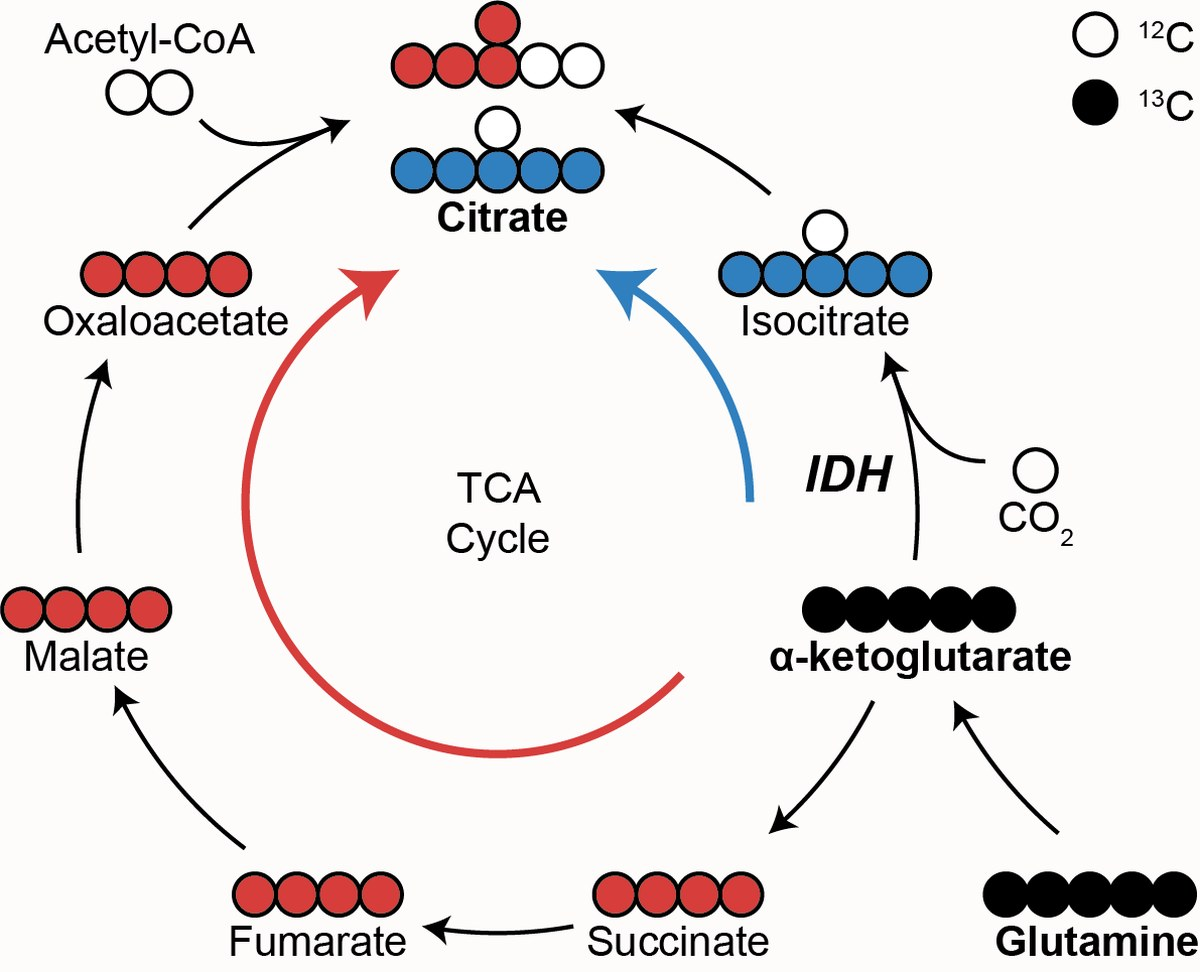
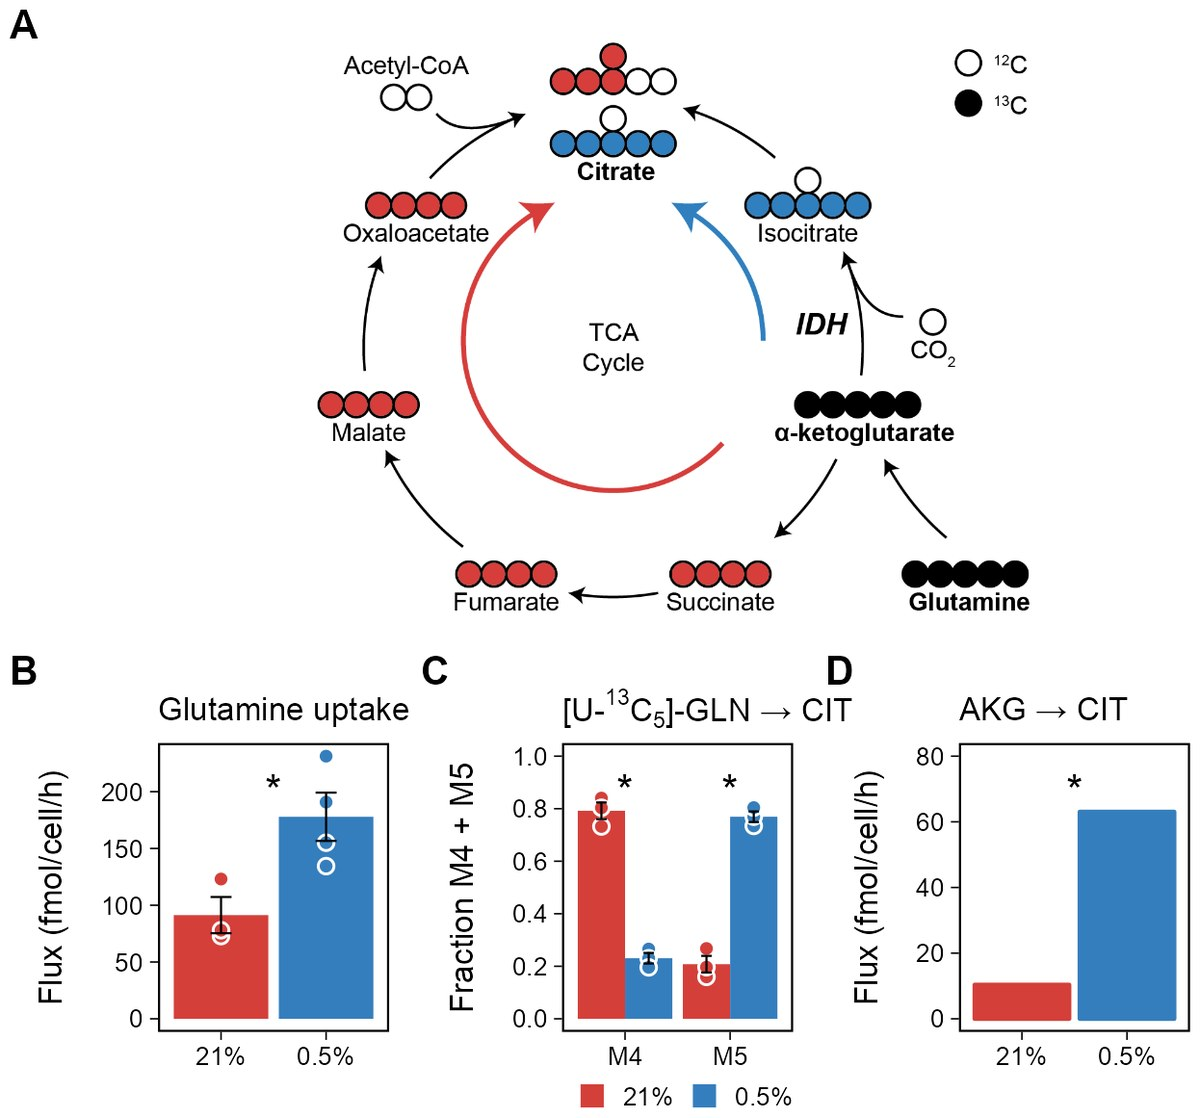
content: MYC page - add data figures, replace the schematic-only figure
Review: "this figure is too big for what it shows" and a request for the
hypoxia/normoxia PASMC flux data plus MYC activation data.

The standalone reductive carboxylation schematic is replaced by figures/01_rc.png
from the PHA folder, which is the same schematic PLUS the PASMC flux data the
client asked for: glutamine uptake, the M4-to-M5 shift in glutamine-derived
citrate labeling, and the ~6-fold rise in reductive flux from alpha-ketoglutarate
to citrate, all at 21 versus 0.5 percent oxygen. Same footprint on the page, four
times the content, so the space is now earned. Panel bounds and content bbox
detected from the source; transparency flattened onto the page canvas.

MYC activation added from eLife Figure 11 A-B, rendered from the PDF at 300 dpi
and trimmed to content: MYC protein rises in hypoxia but not with pharmacologic
HIF stabilization in normoxia. Placed with the paragraph that makes the claim.

Note on sourcing: the client asked for the PASMC flux map, but the only flux map
rendered in the eLife PDF is Figure 5A, which is lung fibroblasts - the PASMC
comparison is figure supplement 4 and is not in the main article file. The PHA
figure carries the PASMC numbers directly, so it is the better source and no
cell type is misattributed.

Also fixed: a percent sign in fig-alt text made Quarto's link checker try to
parse the alt string as a URI and emit an Invalid URI warning. Both alt strings
now spell out the oxygen tensions.

diff --git a/_site/research/pulmonary-vascular-metabolism.html b/_site/research/pulmonary-vascular-metabolism.html
@@ -106,14 +106,14 @@ cookieconsent.run({
 
 <meta property="og:title" content="Metabolic regulation in pulmonary vascular disease – Oldham Lab">
 <meta property="og:description" content="Pulmonary artery smooth muscle cells keep proliferating in low oxygen when most cells stop. We are defining the metabolic signal that permits it, and testing whether blocking that signal prevents vascular remodeling.">
-<meta property="og:image" content="https://oldhamlab.org/img/research/reductive-carboxylation.jpg">
+<meta property="og:image" content="https://oldhamlab.org/img/research/myc-hypoxia.jpg">
 <meta property="og:site_name" content="Oldham Lab">
-<meta property="og:image:alt" content="Diagram of the tricarboxylic acid cycle showing oxidative flux from glutamine-derived alpha-ketoglutarate around to citrate, and the reductive route in which isocitrate dehydrogenase fixes carbon dioxide onto alpha-ketoglutarate to form citrate directly. Carbon atoms derived from labeled glutamine are marked.">
+<meta property="og:image:alt" content="Immunoblot and quantification showing MYC protein increased in lung fibroblasts cultured in low oxygen compared with room air, with and without the prolyl hydroxylase inhibitor molidustat.">
 <meta name="twitter:title" content="Metabolic regulation in pulmonary vascular disease – Oldham Lab">
 <meta name="twitter:description" content="Pulmonary artery smooth muscle cells keep proliferating in low oxygen when most cells stop. We are defining the metabolic signal that permits it, and testing whether blocking that signal prevents vascular remodeling.">
-<meta name="twitter:image" content="https://oldhamlab.org/img/research/reductive-carboxylation.jpg">
+<meta name="twitter:image" content="https://oldhamlab.org/img/research/myc-hypoxia.jpg">
 <meta name="twitter:card" content="summary_large_image">
-<meta name="twitter:image:alt" content="Diagram of the tricarboxylic acid cycle showing oxidative flux from glutamine-derived alpha-ketoglutarate around to citrate, and the reductive route in which isocitrate dehydrogenase fixes carbon dioxide onto alpha-ketoglutarate to form citrate directly. Carbon atoms derived from labeled glutamine are marked.">
+<meta name="twitter:image:alt" content="Immunoblot and quantification showing MYC protein increased in lung fibroblasts cultured in low oxygen compared with room air, with and without the prolyl hydroxylase inhibitor molidustat.">
 </head>
 
 <body class="nav-fixed fullcontent quarto-light">
@@ -207,10 +207,14 @@ cookieconsent.run({
 
 <p>Pulmonary hypertension arising from chronic lung disease is common and carries the highest mortality of any subtype, yet only one therapy is approved for it and it helps only some patients. Sustained low oxygen thickens and narrows the pulmonary arteries, and that remodeling is driven by proliferation of the smooth muscle cells in the vessel wall. Most cells slow or stop dividing in hypoxia. Pulmonary artery smooth muscle cells do not, which implies a pathway that sustains growth when it should be suppressed.</p>
 <p>The canonical account of hypoxic metabolism is that HIF-1α stabilizes, glycolytic gene expression rises, and glycolytic flux follows. Working in primary human lung fibroblasts and pulmonary artery smooth muscle cells rather than tumor lines, we found that this does not hold. Hypoxia <em>decreased</em> glycolysis in these cells even though HIF-1α was activated and glycolytic enzyme expression increased. Stabilizing HIF-1α pharmacologically in normal oxygen did raise glycolysis, but hypoxia blocked that response, so something downstream of HIF was overriding it. That something is MYC: knocking MYC down in hypoxia increased glycolysis, and overexpressing it in normoxia suppressed the glycolytic response to HIF stabilization. MYC signaling in hypoxia uncouples HIF-driven glycolytic transcription from glycolytic flux.</p>
+<div class="fig-narrow-wide">
+<p><img src="../img/research/myc-hypoxia.jpg" class="img-fluid" alt="Immunoblot and quantification showing MYC protein increased in lung fibroblasts cultured in low oxygen compared with room air, with and without the prolyl hydroxylase inhibitor molidustat."></p>
+<p><span class="fig-note">MYC protein rises in hypoxia, but not with pharmacologic HIF stabilization in normal oxygen.</span></p>
+</div>
 <p>Our current work asks what sustains MYC activity when oxygen is limited. In hypoxia, cells increasingly run the reaction catalyzed by isocitrate dehydrogenase in reverse, fixing carbon dioxide onto α-ketoglutarate to make citrate rather than oxidizing citrate to α-ketoglutarate. This reductive carboxylation supplies carbon for biosynthesis when oxidative metabolism is constrained, and our preliminary data indicate that it is required to maintain MYC signaling and proliferation in hypoxic smooth muscle cells.</p>
 <div class="fig-narrow-wide">
-<p><img src="../img/research/reductive-carboxylation.jpg" class="img-fluid" alt="Diagram of the tricarboxylic acid cycle showing oxidative flux from glutamine-derived alpha-ketoglutarate around to citrate, and the reductive route in which isocitrate dehydrogenase fixes carbon dioxide onto alpha-ketoglutarate to form citrate directly. Carbon atoms derived from labeled glutamine are marked."></p>
-<p><span class="fig-note">In hypoxia, isocitrate dehydrogenase increasingly runs in reverse, building citrate directly from α-ketoglutarate rather than oxidizing it. Stable isotope tracing distinguishes the two routes.</span></p>
+<p><img src="../img/research/reductive-carboxylation.jpg" class="img-fluid" alt="Diagram of the tricarboxylic acid cycle showing the oxidative route to citrate and the reductive route in which isocitrate dehydrogenase fixes carbon dioxide onto alpha-ketoglutarate, alongside bar charts of glutamine uptake, citrate labeling, and reductive flux in pulmonary artery smooth muscle cells in room air and in low oxygen."></p>
+<p><span class="fig-note">In hypoxia, isocitrate dehydrogenase increasingly runs in reverse, building citrate directly from α-ketoglutarate rather than oxidizing it (<strong>A</strong>). In pulmonary artery smooth muscle cells, low oxygen increases glutamine uptake (<strong>B</strong>), shifts glutamine-derived citrate labeling from M4 to M5 (<strong>C</strong>), and raises reductive flux from α-ketoglutarate to citrate roughly sixfold (<strong>D</strong>).</span></p>
 </div>
 <p>This gives a metabolic–transcriptional axis to test. We are quantifying IDH expression in remodeled human pulmonary arteries and asking whether inhibiting IDH — with compounds already approved in oncology — suppresses reductive carboxylation, MYC activation, and proliferation. In parallel, inducible smooth-muscle-specific expression of Omomyc, a peptide inhibitor of MYC now in clinical trials, will test whether MYC is required for hypoxic pulmonary vascular remodeling in an intact animal. Because both classes of drug are already well advanced in human medicine, a positive result would have a short path to trial in a patient population with few options.</p>
 <section id="key-paper" class="level2">

diff --git a/_site/index.html b/_site/index.html
@@ -324,7 +324,7 @@ window.Quarto = {
     <p>Matrix production is a biosynthetic problem. We are identifying the nutrients fibroblasts consume to build extracellular matrix, and testing whether blocking their transport attenuates fibrosis.</p>
   </div>
 
-  <div class="teaser" data-index="2" data-listing-file-modified-sort="1785694760528" data-listing-reading-time-sort="3" data-listing-word-count-sort="460">
+  <div class="teaser" data-index="2" data-listing-file-modified-sort="1785695435577" data-listing-reading-time-sort="3" data-listing-word-count-sort="534">
     <h3><a href="./research/pulmonary-vascular-metabolism.html">Metabolic regulation in pulmonary vascular disease</a></h3>
     <p>Pulmonary artery smooth muscle cells keep proliferating in low oxygen when most cells stop. We are defining the metabolic signal that permits it, and testing whether blocking that signal prevents vascular remodeling.</p>
   </div>

diff --git a/_site/research.html b/_site/research.html
@@ -268,7 +268,7 @@ window.Quarto = {
     <p>Matrix production is a biosynthetic problem. We are identifying the nutrients fibroblasts consume to build extracellular matrix, and testing whether blocking their transport attenuates fibrosis.</p>
   </div>
 
-  <div class="teaser" data-index="2" data-listing-file-modified-sort="1785694760528" data-listing-reading-time-sort="3" data-listing-word-count-sort="460">
+  <div class="teaser" data-index="2" data-listing-file-modified-sort="1785695435577" data-listing-reading-time-sort="3" data-listing-word-count-sort="534">
     <h3><a href="./research/pulmonary-vascular-metabolism.html">Metabolic regulation in pulmonary vascular disease</a></h3>
     <p>Pulmonary artery smooth muscle cells keep proliferating in low oxygen when most cells stop. We are defining the metabolic signal that permits it, and testing whether blocking that signal prevents vascular remodeling.</p>
   </div>
